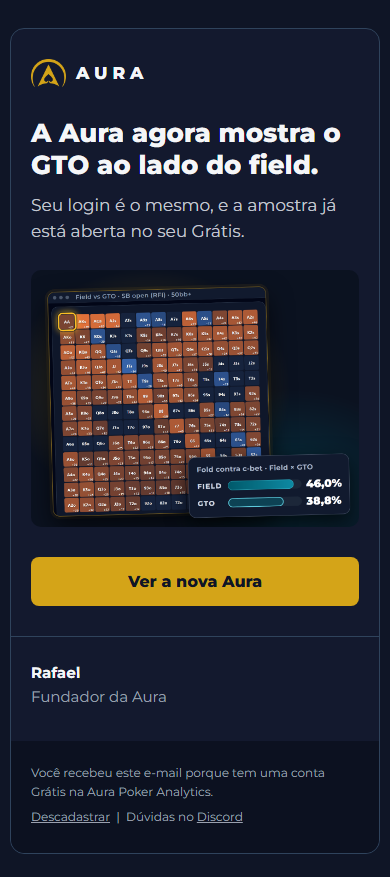
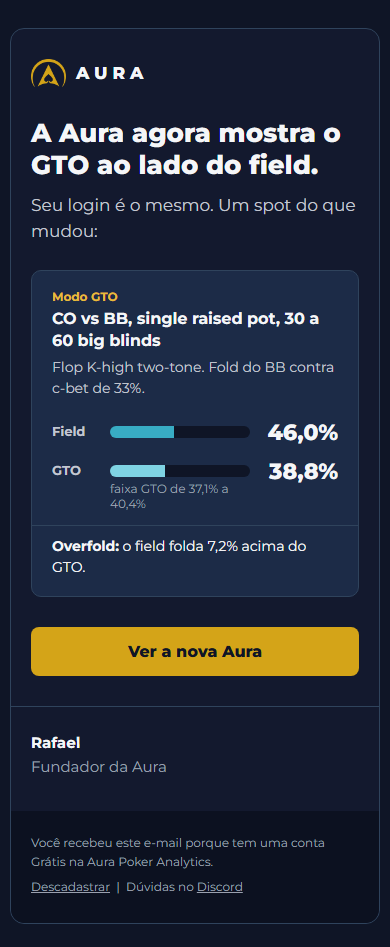
fix(followup): R1 troca a imagem por quadro field x GTO de pós-flop com número verificado

diff --git a/content/email/followup-r1-reativacao.html b/content/email/followup-r1-reativacao.html
@@ -31,8 +31,36 @@
 <td style="vertical-align:middle; font-family:Montserrat,Arial,Helvetica,sans-serif; font-size:17px; font-weight:800; letter-spacing:5px; color:#F5F6F8;">AURA</td>
 </tr></table></td></tr>
 <tr><td class="px" style="padding:30px 40px 26px 40px;"><h1 class="h1" style="margin:0; font-family:Montserrat,Arial,Helvetica,sans-serif; font-size:30px; line-height:36px; font-weight:800; color:#F5F6F8;">A Aura agora mostra o GTO ao lado do field.</h1>
-<p style="margin:12px 0 0 0; font-family:Montserrat,Arial,Helvetica,sans-serif; font-size:17px; line-height:1.5; color:#C3C7D1;">Seu login é o mesmo, e a amostra já está aberta no seu Grátis.</p></td></tr>
-<tr><td class="px" style="padding:0 40px 24px 40px;"><a href="https://www.aurapoker.com/?utm_source=email&utm_medium=email&utm_campaign=reativacao-gratis&utm_content=r1-a-img" style="text-decoration:none;"><img src="https://www.aurapoker.com/email/modo-gto-pt.png" width="520" alt="Modo GTO: fold contra c-bet, field 46,0% e GTO 38,8%, ao lado da grade Field vs GTO do open do SB" style="display:block; width:100%; max-width:520px; height:auto; border:0; border-radius:10px;"></a></td></tr>
+<p style="margin:12px 0 0 0; font-family:Montserrat,Arial,Helvetica,sans-serif; font-size:17px; line-height:1.5; color:#C3C7D1;">Seu login é o mesmo. Um spot do que mudou:</p></td></tr>
+<tr><td class="px" style="padding:0 40px 24px 40px;"><table role="presentation" width="100%" cellpadding="0" cellspacing="0" border="0" style="background-color:#1C2B47; border:1px solid #2F435C; border-radius:10px;">
+<tr><td style="padding:18px 20px 6px 20px; font-family:Montserrat,Arial,Helvetica,sans-serif;">
+  <p style="margin:0 0 4px 0; font-size:12px; font-weight:700; color:#E8BC3A;">Modo GTO</p>
+  <p style="margin:0 0 4px 0; font-size:16px; font-weight:700; line-height:1.4; color:#F5F6F8;">CO vs BB, single raised pot, 30 a 60 big blinds</p>
+  <p style="margin:0; font-size:14px; line-height:1.5; color:#C3C7D1;">Flop K-high two-tone. Fold do BB contra c-bet de 33%.</p>
+</td></tr>
+<tr><td style="padding:8px 20px 4px 20px;">
+<table role="presentation" width="100%" cellpadding="0" cellspacing="0" border="0">
+<tr>
+  <td width="58" valign="top" style="padding:10px 0; font-family:Montserrat,Arial,Helvetica,sans-serif; font-size:13px; font-weight:700; color:#C3C7D1;">Field</td>
+  <td valign="top" style="padding:13px 12px 10px 0;">
+    <table role="presentation" width="100%" cellpadding="0" cellspacing="0" border="0" style="border-radius:6px;"><tr>
+      <td width="46%" height="12" bgcolor="#38ACC4" style="height:12px; line-height:12px; font-size:0; background-color:#38ACC4; border-radius:6px 0 0 6px;">&nbsp;</td>
+      <td height="12" bgcolor="#0F1526" style="height:12px; line-height:12px; font-size:0; background-color:#0F1526; border-radius:0 6px 6px 0;">&nbsp;</td>
+    </tr></table>
+  </td>
+  <td width="76" align="right" valign="top" style="padding:6px 0; font-family:Montserrat,Arial,Helvetica,sans-serif; font-size:22px; font-weight:800; color:#F5F6F8;">46,0%</td></tr>
+<tr>
+  <td width="58" valign="top" style="padding:10px 0; font-family:Montserrat,Arial,Helvetica,sans-serif; font-size:13px; font-weight:700; color:#C3C7D1;">GTO</td>
+  <td valign="top" style="padding:13px 12px 10px 0;">
+    <table role="presentation" width="100%" cellpadding="0" cellspacing="0" border="0" style="border-radius:6px;"><tr>
+      <td width="39%" height="12" bgcolor="#7FD3E3" style="height:12px; line-height:12px; font-size:0; background-color:#7FD3E3; border-radius:6px 0 0 6px;">&nbsp;</td>
+      <td height="12" bgcolor="#0F1526" style="height:12px; line-height:12px; font-size:0; background-color:#0F1526; border-radius:0 6px 6px 0;">&nbsp;</td>
+    </tr></table><p style="margin:4px 0 0 0; font-family:Montserrat,Arial,Helvetica,sans-serif; font-size:12px; color:#9AA0AE;">faixa GTO de 37,1% a 40,4%</p>
+  </td>
+  <td width="76" align="right" valign="top" style="padding:6px 0; font-family:Montserrat,Arial,Helvetica,sans-serif; font-size:22px; font-weight:800; color:#F5F6F8;">38,8%</td></tr>
+</table></td></tr>
+<tr><td style="padding:10px 20px 18px 20px; border-top:1px solid #2F435C; font-family:Montserrat,Arial,Helvetica,sans-serif; font-size:14px; line-height:1.5; color:#F5F6F8;"><strong>Overfold:</strong> o field folda 7,2% acima do GTO.</td></tr>
+</table></td></tr>
 <tr><td class="px" style="padding:6px 40px 30px 40px;"><table role="presentation" cellpadding="0" cellspacing="0" border="0" class="btn-wrap"><tr>
   <td align="center" bgcolor="#D4A418" style="border-radius:8px; background-color:#D4A418;">
     <a href="https://www.aurapoker.com/?utm_source=email&utm_medium=email&utm_campaign=reativacao-gratis&utm_content=r1-a" class="btn" style="display:inline-block; padding:15px 30px; font-family:Montserrat,Arial,Helvetica,sans-serif; font-size:16px; font-weight:800; line-height:1.2; color:#0F1526; text-decoration:none; border-radius:8px;">Ver a nova Aura</a>

diff --git a/content/email/_template/build_followup.py b/content/email/_template/build_followup.py
@@ -87,6 +87,38 @@ def bullets(items):
     return f'<table role="presentation" width="100%" cellpadding="0" cellspacing="0" border="0">{out}</table>'
 
 
+FOLD, FOLD_GTO, TRACK = "#38ACC4", "#7FD3E3", "#0F1526"
+
+
+def gto_card(spot, context, field, gto, band, verdict):
+    """Quadro field x GTO de um spot, em tabela (sem imagem hospedada). Números só de numeros-verificados."""
+    def bar(label, pct, color, value, sub=""):
+        w = max(1, min(99, round(float(pct.replace(",", ".")))))
+        subrow = f'<p style="margin:4px 0 0 0; font-family:{FONT}; font-size:12px; color:{INK3};">{sub}</p>' if sub else ""
+        return f'''<tr>
+  <td width="58" valign="top" style="padding:10px 0; font-family:{FONT}; font-size:13px; font-weight:700; color:{INK2};">{label}</td>
+  <td valign="top" style="padding:13px 12px 10px 0;">
+    <table role="presentation" width="100%" cellpadding="0" cellspacing="0" border="0" style="border-radius:6px;"><tr>
+      <td width="{w}%" height="12" bgcolor="{color}" style="height:12px; line-height:12px; font-size:0; background-color:{color}; border-radius:6px 0 0 6px;">&nbsp;</td>
+      <td height="12" bgcolor="{TRACK}" style="height:12px; line-height:12px; font-size:0; background-color:{TRACK}; border-radius:0 6px 6px 0;">&nbsp;</td>
+    </tr></table>{subrow}
+  </td>
+  <td width="76" align="right" valign="top" style="padding:6px 0; font-family:{FONT}; font-size:22px; font-weight:800; color:{INK};">{value}</td></tr>'''
+    return f'''<table role="presentation" width="100%" cellpadding="0" cellspacing="0" border="0" style="background-color:{FELT}; border:1px solid {RAIL}; border-radius:10px;">
+<tr><td style="padding:18px 20px 6px 20px; font-family:{FONT};">
+  <p style="margin:0 0 4px 0; font-size:12px; font-weight:700; color:{GOLD_TXT};">Modo GTO</p>
+  <p style="margin:0 0 4px 0; font-size:16px; font-weight:700; line-height:1.4; color:{INK};">{spot}</p>
+  <p style="margin:0; font-size:14px; line-height:1.5; color:{INK2};">{context}</p>
+</td></tr>
+<tr><td style="padding:8px 20px 4px 20px;">
+<table role="presentation" width="100%" cellpadding="0" cellspacing="0" border="0">
+{bar("Field", field, FOLD, field + "%")}
+{bar("GTO", gto, FOLD_GTO, gto + "%", sub=band)}
+</table></td></tr>
+<tr><td style="padding:10px 20px 18px 20px; border-top:1px solid {RAIL}; font-family:{FONT}; font-size:14px; line-height:1.5; color:{INK};">{verdict}</td></tr>
+</table>'''
+
+
 def image(src, alt, url, w=520):
     return (f'<a href="{url}" style="text-decoration:none;"><img src="{src}" width="{w}" alt="{alt}" '
             f'style="display:block; width:100%; max-width:{w}px; height:auto; border:0; border-radius:10px;"></a>')
@@ -191,11 +223,15 @@ r1 = email(
     title="Desde o seu último login, a Aura ganhou o GTO",
     preview="O field e a faixa GTO lado a lado. A amostra já está aberta no seu Grátis.",
     headline="A Aura agora mostra o GTO ao lado do field.",
-    sub="Seu login é o mesmo, e a amostra já está aberta no seu Grátis.",
+    sub="Seu login é o mesmo. Um spot do que mudou:",
     blocks=[
-        row(image("https://www.aurapoker.com/email/modo-gto-pt.png",
-                  "Modo GTO: fold contra c-bet, field 46,0% e GTO 38,8%, ao lado da grade Field vs GTO do open do SB",
-                  LANDING.format(c="reativacao-gratis", k="r1-a-img")), pad="0 40px 24px 40px"),
+        # números: aura-main/_ops/golive-gto-2026-10-04/numeros-verificados.md, exemplo (a), medido em 08/10 e reconferido em 13/10
+        row(gto_card(
+            spot="CO vs BB, single raised pot, 30 a 60 big blinds",
+            context="Flop K-high two-tone. Fold do BB contra c-bet de 33%.",
+            field="46,0", gto="38,8", band="faixa GTO de 37,1% a 40,4%",
+            verdict="<strong>Overfold:</strong> o field folda 7,2% acima do GTO.",
+        ), pad="0 40px 24px 40px"),
     ],
     cta="Ver a nova Aura",
     cta_url=LANDING.format(c="reativacao-gratis", k="r1-a"),

diff --git a/docs/00-strategy/followup-cadastrados-gratis.md b/docs/00-strategy/followup-cadastrados-gratis.md
@@ -281,8 +281,8 @@ São os três primeiros da fase 1, um por alavanca (ativação, upgrade, reativa
 
 **Template v2 (rodada 2, 23/10).** O Rafael achou o template antigo "horrível". O novo é gerado por `content/email/_template/build_followup.py` (`python -I content/email/_template/build_followup.py`); os HTML não se editam à mão.
 - **Identidade:** a paleta dark da landing (`aura-landing/src/styles/globals.css`, `.theme-a`): fundo `#0F1526`, cartão `#13192E`, painel `#1C2B47`, borda `#2F435C`, texto `#F5F6F8` / `#C3C7D1` / `#9AA0AE`, dourado `#D4A418` no botão. Montserrat, a fonte da landing, onde o cliente carrega webfont (Apple Mail, iOS); Arial nos demais.
-- **Uma peça forte por e-mail**, no lugar da lista de ♠: no A1, o caminho de três passos até o primeiro spot; no U1, o quadro Grátis × Individual linha a linha; no R1, a tela do Modo GTO já publicada (`www.aurapoker.com/email/modo-gto-pt.png`).
-- **Pouco texto (corte de 23/10, pedido da HUB no gosto do Rafael):** cada e-mail tem só título, uma frase, a peça visual, o botão e uma linha de pergunta. No A1, cada passo tem um subtítulo de no máximo uma linha. O U1 ficou com 5 linhas no quadro e uma linha de preço. O R1 é título, frase e imagem. A linha "Modo GTO incluso no plano Individual por tempo limitado" repete, palavra por palavra, o que a landing mostra hoje (conferido no ar em 23/10). O parágrafo do Field Exploits saiu do A1; ele fica para o A2.
+- **Uma peça forte por e-mail**, no lugar da lista de ♠: no A1, o caminho de três passos até o primeiro spot; no U1, o quadro Grátis × Individual linha a linha; no R1, um quadro field × GTO de um spot de pós-flop desenhado em tabela, sem imagem hospedada (CO vs BB, flop K-high two-tone, fold contra c-bet de 33%: field 46,0%, GTO 38,8%, faixa de 37,1% a 40,4%; fonte `aura-main/_ops/golive-gto-2026-10-04/numeros-verificados.md`, exemplo (a)). A imagem `modo-gto-pt.png` saiu: o cabeçalho dela usa o nome antigo "Field vs GTO" e mistura a grade de pré-flop com o cartão de pós-flop.
+- **Pouco texto (corte de 23/10, pedido da HUB no gosto do Rafael):** cada e-mail tem só título, uma frase, a peça visual, o botão e uma linha de pergunta. No A1, cada passo tem um subtítulo de no máximo uma linha. O U1 ficou com 5 linhas no quadro e uma linha de preço. O R1 é título, frase e o quadro do spot. A linha "Modo GTO incluso no plano Individual por tempo limitado" repete, palavra por palavra, o que a landing mostra hoje (conferido no ar em 23/10). O parágrafo do Field Exploits saiu do A1; ele fica para o A2.
 - **Compatibilidade:** só tabelas e estilo inline. O `<style>` do head só ajusta o celular (padding, título e botão de largura cheia), e o Outlook o ignora sem quebrar. As imagens vêm de URLs públicas que respondem 200 (conferido em 23/10). Prints feitos no Chrome headless; o de 390 px é de um iframe com 390 px exatos.
 - **Pendente antes do envio:** teste real no Gmail (web e app) e no Outlook, com um envio de teste para um endereço interno (é envio, então só com a frase do Rafael); versão EN; tirar o comentário de rascunho da linha 2.
 
